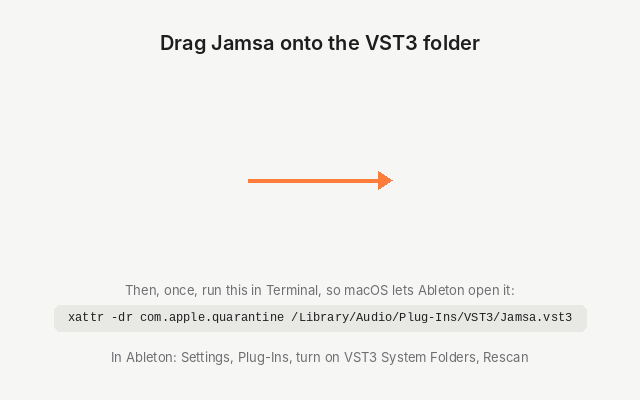
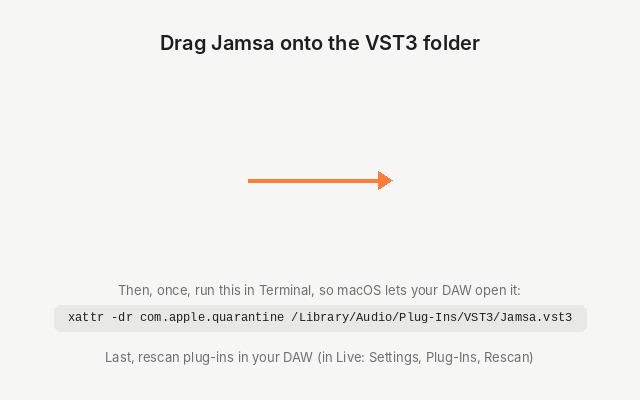
README and the Mac disk image: steps for any DAW, with Live's as the example
Claude-Session: https://claude.ai/code/session_01CPDAfGwE5RRmKxDdd98hkc

Changed region(s): [[0.1562, 0.87, 0.8438, 0.93], [0.1875, 0.69, 0.8125, 0.75]]

diff --git a/ninjam/vst3/packaging/make_dmg_background.py b/ninjam/vst3/packaging/make_dmg_background.py
@@ -44,11 +44,11 @@ def draw(scale, sans, semibold, mono):
     d.polygon([(s(x1), s(y)), (s(x1 - head - 2), s(y - 9)), (s(x1 - head - 2), s(y + 9))], fill=ORANGE)
 
     # the two steps after it, in the bottom third (Finder's labels end near y = 255)
-    centred(290, "Then, once, run this in Terminal, so macOS lets Ableton open it:", body, DIM)
+    centred(290, "Then, once, run this in Terminal, so macOS lets your DAW open it:", body, DIM)
     box_w = d.textlength(COMMAND, font=code) / scale + 28
     d.rounded_rectangle((s((W - box_w) / 2), s(305), s((W + box_w) / 2), s(331)), radius=s(6), fill=BOX)
     centred(318, COMMAND, code, TEXT)
-    centred(357, "In Ableton: Settings, Plug-Ins, turn on VST3 System Folders, Rescan", body, DIM)
+    centred(357, "Last, rescan plug-ins in your DAW (in Live: Settings, Plug-Ins, Rescan)", body, DIM)
     return image
 
 

diff --git a/README.md b/README.md
@@ -19,7 +19,7 @@ Jamsa is one `Jamsa.vst3`. On Windows that's a single file; on macOS and Linux i
 **Windows**
 1. Unzip the download.
 2. Copy `Jamsa.vst3` to `C:\Program Files\Common Files\VST3`.
-3. In Ableton, open Settings (Preferences in Live 11), then Plug-Ins. Turn on *Use VST3 Plug-In System Folders* and click *Rescan*.
+3. Rescan plug-ins in your DAW. In Ableton Live, open Settings (Preferences in Live 11), then Plug-Ins: turn on *Use VST3 Plug-In System Folders* and click *Rescan*.
 
 **macOS**
 1. Open `Jamsa-vst3-macos.dmg`.
@@ -28,7 +28,7 @@ Jamsa is one `Jamsa.vst3`. On Windows that's a single file; on macOS and Linux i
    ```
    xattr -dr com.apple.quarantine /Library/Audio/Plug-Ins/VST3/Jamsa.vst3
    ```
-4. In Ableton, open Settings (Preferences in Live 11), then Plug-Ins. Turn on *Use VST3 Plug-In System Folders* and click *Rescan*.
+4. Rescan plug-ins in your DAW. In Ableton Live, open Settings (Preferences in Live 11), then Plug-Ins: turn on *Use VST3 Plug-In System Folders* and click *Rescan*.
 
 **Linux**
 1. Unzip the download into `~/.vst3`, so you have `~/.vst3/Jamsa.vst3`.
@@ -38,7 +38,7 @@ The editor uses X11. It needs the usual desktop libraries: xcb, cairo, pango and
 
 ## Play
 
-1. Put Jamsa on an audio track with your instrument or microphone as the input, and set monitoring to In.
+1. Put Jamsa on an audio track with your instrument or microphone as the input, and turn on the track's input monitoring (in Live, set Monitor to In).
 2. **To host**, click **Host** in the bottom bar, and use **Copy** to send players the WAN address.
 3. **To join**, type the address under Server and click **Connect**.
 4. These settings belong to the room, so changing one changes it for everyone:
@@ -52,7 +52,7 @@ The editor uses X11. It needs the usual desktop libraries: xcb, cairo, pango and
 Hosting tips:
 - Jamsa asks your router to forward its port (UPnP or NAT-PMP). If the router doesn't allow that, forward TCP port 2049 to your computer yourself (Jamsa tries ports 2049 to 2058). The WAN address still shows: Jamsa asks a "what's my IP" service (api.ipify.org) for it. Jamsa can't see a port you forwarded yourself, so it says *Forward port* until the first player joins from the internet, then *Port open*.
 - The host's connection sends every player everyone else's audio. With 4 players at 510 kbps, that's about 4.6 Mbit/s of upload; at 128 kbps, about 1.2 Mbit/s.
-- The room closes when the host closes Ableton. For a room that stays up, run the server on a machine that's always on (see below).
+- The room closes when the host closes their DAW. For a room that stays up, run the server on a machine that's always on (see below).
 
 ## Build from source
 
